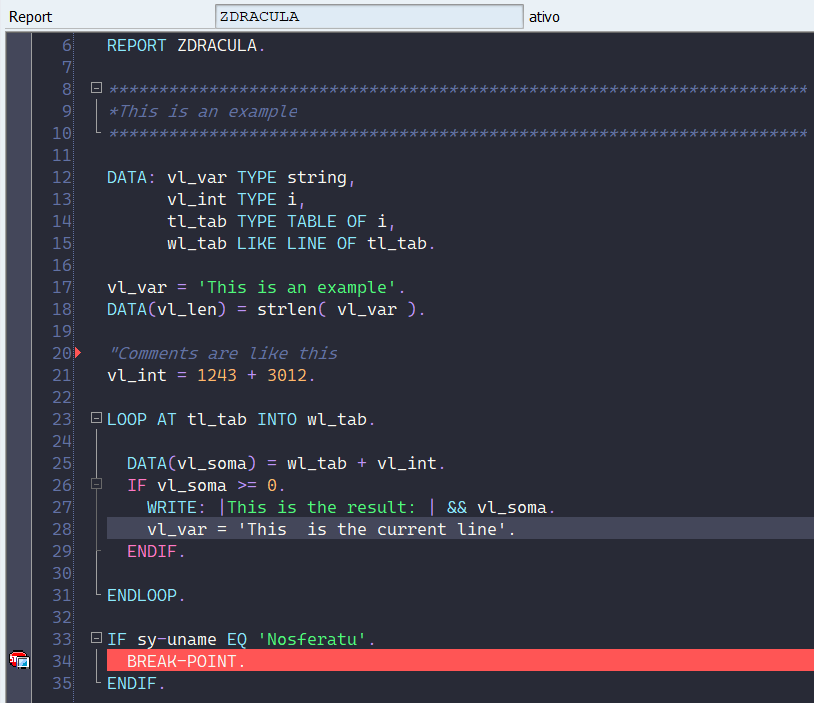
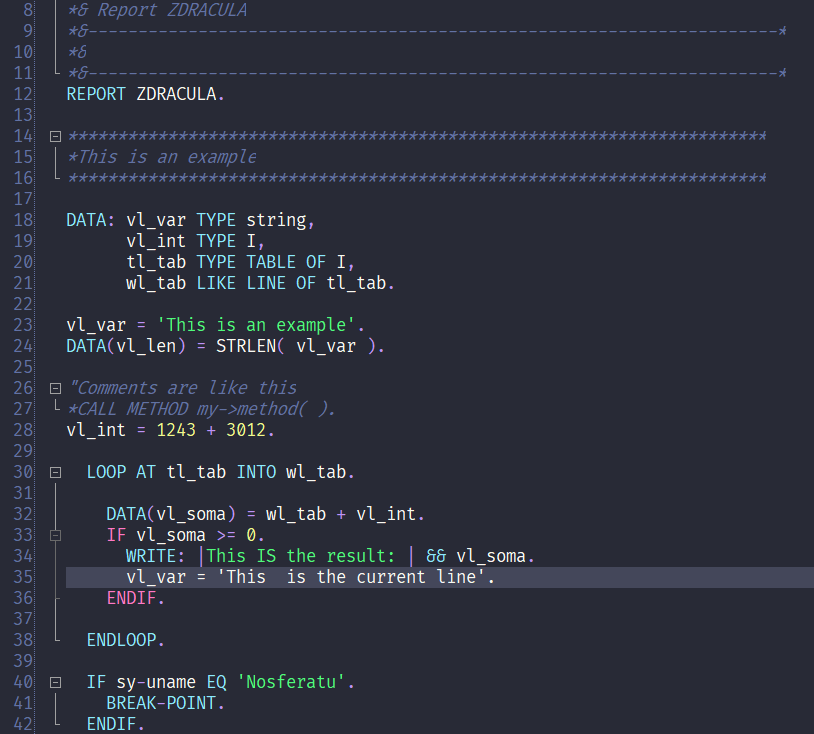
new edit mode background color added

Changed region(s): [[0.0, 0.0, 1.0, 1.0]]

diff --git a/INSTALL.md b/INSTALL.md
@@ -16,3 +16,23 @@ Download using the [GitHub .zip download](https://github.com/dracula/abap/archiv
 2. Navigate to the SAP GUI theme directory. On Windows: `%APPDATA%\SAP\SAP GUI\ABAP Editor\`
 3. Replace `abap_spec.xml` file with the downloaded file with the same name.
 (It's advised to copy the original file to another location as a backup.)
+
+#### Customizing theme
+
+To play around and edit the abap_spec.xml, inside the COLORSYNTAX tag.
+
+For each TextType node, change either "clr" or "bkclr" properties, using the following internal codes:
+
+- Foreground  = 15923448
+- Background
+	- Background (read mode) = 3549736
+	- Background (edit mode) = 1511953
+- CurrentLine = 5916484
+- Comment     = 10777186
+- Cyan		= 16640395
+- Green		= 8125008
+- Orange		= 7125247
+- Pink		= 13007359
+- Purple		= 16356285
+- Red			= 5592575
+- Yellow		= 9239281
